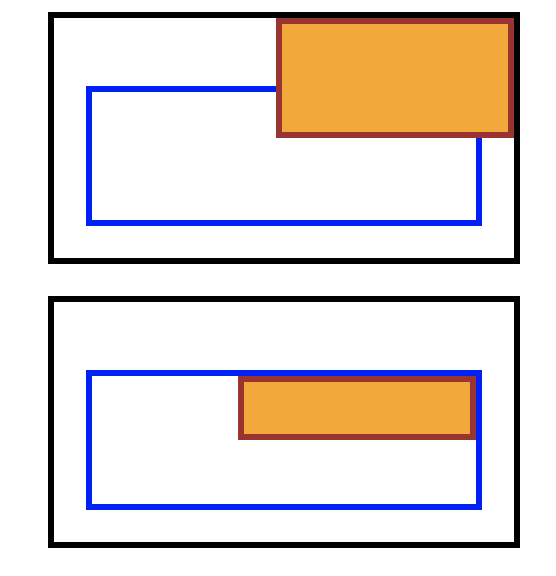
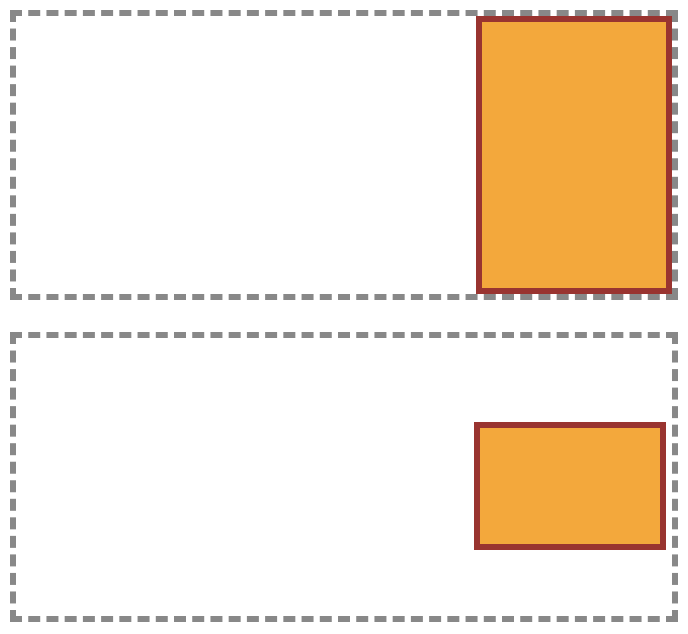
Remove margin from containing block parent for more effective visual

diff --git a/css/pages/containing-block.html b/css/pages/containing-block.html
@@ -12,13 +12,15 @@
       padding: 3px 0px 30px 3px;
     }
     .parent {
-      margin: 1em;
       border: 3px solid blue;
       animation-name: pulse;
       animation-duration: 1s;
       animation-timing-function: ease-out;
       animation-direction: alternate-reverse;
       animation-iteration-count: infinite;
+    }
+    .parent.margin {
+      margin: 1em;
     }
     .parent:hover {
     }
@@ -144,7 +146,7 @@
     <p> An in-flow (<code>position</code> is <code>static</code>, <code>relative</code>, or <code>sticky</code>) element's containing block is its nearest block-level ancestor (including <code>inline-block</code>). The containing block defines relative units.</p>
     <div class="grandparent">
       Snoot?
-      <div class="parent">
+      <div class="parent margin">
         <code>div</code> (block)
         <div class="child relative">
           <code>width: 100%</code>
@@ -155,7 +157,7 @@
     </div>
     <div class="grandparent">
       Snoot?
-      <span class="parent">
+      <span class="parent margin">
         <code>span</code> (inline)
         <div class="child relative">
           <code>width: 100%</code>
@@ -166,7 +168,7 @@
     </div>
     <div class="grandparent">
       Snoot?
-      <span class="parent block">
+      <span class="parent margin block">
         <code>span</code><br />
         <code>display: inline-block</code>
         <div class="child relative">
